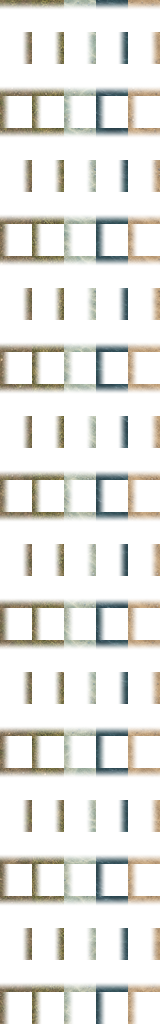
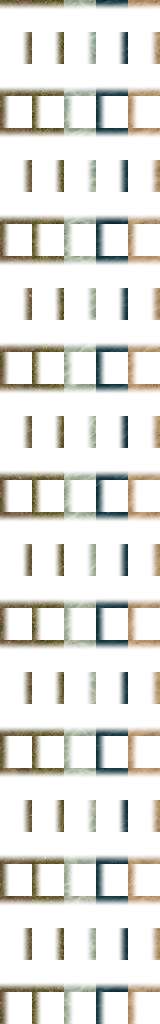
Make terrain blending fully automatic

diff --git a/docs/MAP_DESIGN.md b/docs/MAP_DESIGN.md
@@ -14,15 +14,15 @@ The Tilebase source textures are converted into a compact atlas with eight visua
 
 In the TileMap palette, each atlas column is one terrain and its eight rows are the variations. Gameplay reads the `terrain_id`, `walkable`, and `blend_priority` custom data attached to each tile; it never guesses behavior from the artwork or atlas position.
 
-`TerrainMap` selects a stable variation for every painted cell when the map starts. The variation is deterministic, so it will not shimmer or change between frames. Change `variation_seed` on the node for a different distribution, or disable `automatic_variations` if you want every hand-picked atlas row preserved.
+`TerrainMap` listens to its own change notifications and watches the compact tile-data fingerprint for raw TileMap edits. Every cell painted in the editor, placed through `set_cell`, or created by a future map generator automatically receives a stable variation and requests a blend redraw within `automatic_refresh_interval` (0.1 seconds by default). The variation is deterministic, so it will not shimmer or change between frames. Change `variation_seed` on the node for a different distribution, or disable `automatic_variations` if you want every hand-picked atlas row preserved.
 
 ## Soft terrain blending
 
-`TerrainBlendOverlay` adds a translucent ten-pixel transition wherever unlike cardinal neighbors meet. The natural layering order is:
+`TerrainBlendOverlay` adds a ten-pixel transition along every cardinal tile boundary. It samples the neighbor's matching opposite edge, so the pixels on both sides of a boundary meet before feathering inward. Variations of the same terrain crossfade equally; different terrains use this natural layering order:
 
 `deep water → shallow water → sand → grassy dirt → grass`
 
-For example, sand feathers into shallow water and grass feathers into grassy dirt. This is visual only: the underlying painted cell still controls walking, collision, future pathfinding, and building rules. Diagonal-only contacts do not receive a separate corner mask yet.
+For example, sand feathers into shallow water and grass feathers into grassy dirt. There is no transition tile to select and no cleanup pass after painting. This is visual only: the underlying painted cell still controls walking, collision, future pathfinding, and building rules. Diagonal-only contacts do not require a transition because they share no visible edge.
 
 ## Painting the map in Godot
 
@@ -31,7 +31,7 @@ For example, sand feathers into shallow water and grass feathers into grassy dir
 3. In the TileMap panel at the bottom, switch to tile painting.
 4. Choose the desired terrain column. Any row is valid; automatic variation will distribute all eight when the game runs.
 5. Use the pencil to paint, right-click to erase, and the rectangle or bucket tools for larger areas.
-6. Save with **Ctrl+S** and press **F5** to see automatic variation and blending.
+6. Variations and blends refresh automatically. Save with **Ctrl+S** and press **F5** to test walking and collision.
 
 Keep the painted map within the current 28×16 area. If the map size changes, update `grid_dimensions` on `FoundationTest` so building placement and logical walkability use the same bounds.
 

diff --git a/CHANGELOG.md b/CHANGELOG.md
@@ -38,6 +38,12 @@ All notable project changes are recorded here by milestone.
 - Added deterministic runtime variation and reusable terrain-painting helpers.
 - Added soft priority-based transitions from deep water through shallow water, sand, grassy dirt, and grass.
 
+### Automatic seamless terrain edges
+
+- Made every direct TileMap change automatically refresh deterministic variations and edge blending in both editor-authored and generated maps.
+- Changed blend textures to sample the matching opposite edge of each neighbor at full boundary opacity.
+- Added equal crossfades between visual variations of the same terrain, removing the need for manually painted transition tiles.
+
 ### Mouse-facing player aim
 
 - Added continuous world-space mouse aiming that remains independent from player movement.
